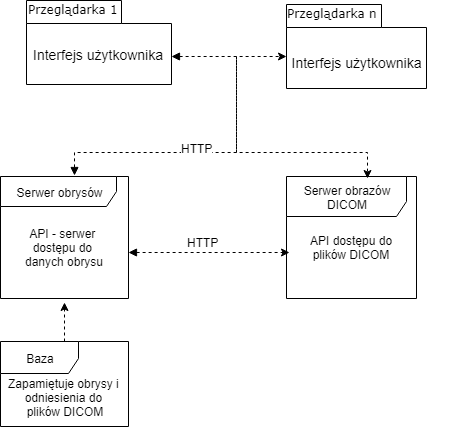
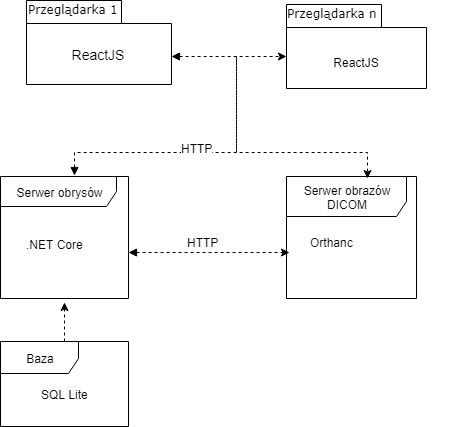
Update chapter 2 and 3.1-3.2 3.6

diff --git a/Thesis/Tekst/thesis_pl.tex b/Thesis/Tekst/thesis_pl.tex
@@ -431,44 +431,47 @@ Tomasz Świerczewski wykonał:
 \chapter {Stan wiedzy}
 
 W poniższym rozdziale zostały przedstawione istniejące na~rynku aplikacje o
-funkcjonalnościach określonych w~celu pracy. Opisano wymagania dla projektowanego systemu
-zarówno funkcjonalne jak i~niefunkcjonalne. Autorski system do~tworzenia obrysów
+funkcjonalnościach określonych w~celu niniejszej pracy. Opisano zarówno funkcjonalne jak i~niefunkcjonalne
+wymagania dla projektowanego systemu. Zaproponowany system do~tworzenia obrysów
 na obrazach w~formacie DICOM struktur anatomicznych czy zmian patologicznych
-powinien spełniać wymagania zarówno lekarzy jak i~inżynierów medycznych, wykorzystujących
+powinien spełniać wymagania zarówno lekarzy, jak i~inżynierów medycznych, wykorzystujących
 to narzędzie w~pracy badawczej i~naukowej. Przedstawiono również proponowane rozwiązanie
-postawionych przed systemem wymagań.
+postawionych wymagań.
 
 \section {Przegląd istniejących rozwiązań}
 
-Obrysy to~krzywe zamknięte naniesione na~obraz, w~celu oznaczenia wewnętrznej części.
-Obrysy można tworzyć manualnie (użytkownik wybiera wszystkie punkty obrysu), lub
-półautomatycznie (użytkownik wybiera kilka punktów, a~algorytm łączy je~na~podstawie
-analizy obrazu). Obie metody są niedoskonałe, gdyż często to~użytkownik musi skorygować
-obrys, ze~względu na~różnorodność obrazów medycznych wynikających z~różnych systemów
-obrazowania, czy też różnorodnej tekstury tkanki obrazowanej.
+Obrysy to~krzywe zamknięte naniesione na~obraz w~celu oznaczenia wewnętrznej części
+regionu zainteresowania (ang. \textit{ROI --- region of interest}).
+Obrysy można tworzyć manualnie (użytkownik wybiera wszystkie punkty obrysu) lub
+półautomatycznie (użytkownik wybiera kilka punktów, a~algorytm łączy je~przy wykorzystaniu
+algorytmu Canny'ego). Obrysy tworzone obiema metodami są modyfikowalne przez użytkownika,
+co w takich zastosowaniach jak obrysy na obrazach medycznych ma duże znaczenie. Użytkownik często musi skorygować
+wygenerowany obrys ze~względu na~różnorodność obrazów medycznych wynikających z~różnych systemów
+obrazowania, czy też ze~względu na~różnorodność tekstury tkanki obrazowanej (innej dla kążdego pacjenta).
 
 \subsection {Przeglądarki DICOM}
 
 Istnieje wiele rozwiązań umożliwiających wykonywanie obrysów przy użyciu przeglądarki.
-W tej pracy opisano szczegółowo dwie wybrane aplikacje.
+W~tej pracy opisano szczegółowo dwie wybrane aplikacje, które według nas w~największym
+stopniu spełniają założone cele pracy.
 
-Pierwsza z~nich to~aplikacja OHIF Viewer oparta o~biblioteki Cornerstone.
+Pierwsza z~nich to~aplikacja OHIF Viewer \cite{OHIF Viewer} oparta o~biblioteki Cornerstone.
 
 Cornerstone Core \cite{Cornerstone Core} to~biblioteka, która umożliwia przetwarzanie
 obrazów medycznych z~wykorzystaniem elementu canvas z~języka HTML5. Biblioteka
 udostępnia interfejs do~wyświetlania obrazów medycznych pozwalający na~zarządzanie
-wyświetlaniem zdjęcia. Podstawowe funkcjonalności obsługiwane przez bibliotekę to:
+wyświetlaniem obrazu. Podstawowe funkcjonalności obsługiwane przez tę bibliotekę to:
 
 \begin{itemize}[noitemsep]
 \item przybliżanie i~oddalanie obrazu,
 \item obrót obrazu,
-\item przesuwanie obrazu w~wyświetlanym komponencie,
+\item przesuwanie obrazu na ekranie,
 \item zmiana jasności wyświetlanego obrazu,
 \item mapowanie kolorów,
 \item interpolacja pikseli w~obrazie (dla obrazów o~niskiej rozdzielczości).
 \end{itemize}
 
-Ponadto twórcy biblioteki Cornerstone Core stworzyli bibliotekę Cornerstone Tools,
+Ponadto twórcy biblioteki Cornerstone Core stworzyli bibliotekę Cornerstone Tools \cite{Cornerstone Tools},
 która korzysta z~biblioteki Cornerstone Core i~poza funkcjonalnościami
 Cornerstone Core udostępnia opisane niżej funkcjonalności
 potrzebne lekarzom do~analizy badań pacjentów, takie jak:
@@ -490,18 +493,18 @@ Rysunku \ref{fig:OHIF-example}.
 	\includegraphics[width=0.7\textwidth]{OHIF-example}
 	\caption{Przykład użycia aplikacji OHIF Viewer --- oznaczono: prostokątny obszar,
 	dla którego obliczone zostały wybrane statystyki; odcinek, dla którego otrzymano
-	odległość w~jednostkach rzeczywistych; wskaźnik, wskazujący na~zmianę, posiadający
-	etykietę tekstową}
+	odległość w~jednostkach rzeczywistych; wskaźnik, wskazujący na~zmianę i posiadający
+	etykietę tekstową.}
     	\label{fig:OHIF-example}
 \end{figure}
 
-Niestety aplikacja nie umożliwia wykonywania obrysów manualnych, ani półautomatycznych,
+Niestety aplikacja OHIF Viewer nie umożliwia wykonywania obrysów manualnych ani półautomatycznych,
 jak również nie pozwala na~zapisanie naniesionych na~obraz oznaczeń.
 
 Drugim rozwiązaniem działającym i~pozwalającym na~pracę z~plikami DICOM w~przeglądarce
-internetowej jest DICOM Web Viewer.
+internetowej jest DICOM Web Viewer \cite{DWV}.
 
-Aplikacja DICOM Web Viewer (DWV) \cite{DWV} jest również przykładem aplikacji
+Aplikacja DICOM Web Viewer (DWV) jest również przykładem aplikacji
 przeglądarkowej służącej do~przetwarzania obrazów DICOM, z~wygodnym interfejsem
 automatycznego i~półautomatycznego obrysowywania obszarów zaznaczonych
 przez użytkownika na~obrazie. Przykładowy obrys wykonany przy użyciu aplikacji
@@ -531,7 +534,7 @@ poruszanie kursorem po~obrazie.
 Orthanc \cite{Orthanc} to~serwer plików DICOM, który umożliwia łatwe przechowywanie,
 zarządzanie oraz dostęp do~plików medycznych DICOM. Ponadto Orthanc udostępnia
 REST API \cite{Orthanc API}, które umożliwia przeglądanie wgranych na~serwer plików DICOM podzielonych
-na kategorie takie jak: pacjenci, badania i~serie.
+na kategorie takie jak: dane pacjentów, badania pacjenta i~serie.
 
 Serwer Orthanc udostępnia prosty interfejs webowy, dzięki któremu możliwe jest
 wgrywanie nowych plików (interfejs wgrywania plików przedstawiono na~Rysunku
@@ -562,7 +565,7 @@ przyciskiem myszy w~prawą część podglądu obrazu.
     	\label{fig:Orthanc-preview}
 \end{figure}
 
-Innym rozwiązaniem pozwalającym na zarządzanie badaniami obrazowymi jest SonicDICOM \cite{SonicDICOM}.
+Innym rozwiązaniem pozwalającym na zarządzanie badaniami obrazowymi jest SonicDICOM~\cite{SonicDICOM}.
 Podobnie jak Orthanc udostępnia on API \cite{SonicDICOM API} pozwalające na komunikację zewnętrznych narzędzi
 z systemem w celu przeglądnia, wyświetlania i modyfikacji zapisanych w systemie badań.
 
@@ -581,17 +584,23 @@ licencji w celu korzystania z zawarnych w nim funkcjonalności.
 
 \subsection {Podsumowanie}
 
-Istniejące rozwiązania przeglądarkowe nie zapewniają wygodnego interfejsu użytkownikowi
+Wymienione rozwiązania przeglądarkowe nie zapewniają wygodnego interfejsu użytkownikowi
 do manualnego obrysowywania interesujących go~fragmentów obrazów medycznych przy użyciu tabletu graficznego.
-Ponadto żadne z~narzędzi nie przechowuje utworzonych w~sposób manualny
-ani wygenerowanych półautomatycznie obrysów.
+Ponadto żadne z~tych narzędzi nie przechowuje obrysów utworzonych w~sposób manualny
+ani półautomatyczniy.
 
 \section {Proponowane rozwiązanie}
 
-W rozwiązaniu zdecydowano się skorzystać z~serwera Orthanc jako bazy przechowującej
+Przygotowane rozwiązanie zapewnia funkcjonalności niedostępne w innych narzędziach
+takie jak połączenie funkcjonalności manualnego i półautomatycznego generowania obryów,
+zapisanie i przeglądanie wykonanych i wygenerowanych obrysów,
+obliczanie statystyk związanych z wykonanymi obrysem jak również zmiania danych pacjenta
+dla przeglądanego badania.
+
+W zaproponowanym rozwiązaniu (Rysunek \ref{fig:architektura2}) zdecydowano się skorzystać z~serwera Orthanc jako bazy przechowującej
 pliki DICOM. Przy decyzji miało znaczenie przede wszystkim to, że jest to~narzędzie
 bezpłatne. Ponadto udostępniane przez API serwera funkcjonalności pozwalające na
-zarządzanie i~przeglądanie zapisanych plików są wystarczające dla realizowanego systemu.
+zarządzanie i~przeglądanie zapisanych plików były wystarczające dla realizowanego systemu.
 
 Poza serwerem Orthanc stworzono serwer w~technologii .NET Core \cite{Dotnet}
 wspomagający interfejs użytkownika, który pozwala na~przeprowadzanie czasochłonnych
@@ -607,7 +616,7 @@ z biblioteką Redux\cite{Redux}. Zdecydowano się na~tę technologię ze~względ
 i elastyczność \cite{Dlaczego react}. Wybranie tej technologii pozwoliło na~stworzenie
 aplikacji przeglądarkowej pozwalającej na~generowanie obrysów manualnych przy
 użyciu myszy lub tabletu graficznego, wybieranie punktów, z~których generowane
-będą obrysy półautomatyczne, oglądanie wcześniej wygenerowanych i~zapisanych
+będą obrysy półautomatyczne, możliwość oglądania wcześniej wygenerowanych i~zapisanych
 obrysów oraz wyświetlanie statystyk dotyczących wykonanego obrysu. Interfejs
 inspirowany jest podglądem obrazu w~aplikacji DWV, ale działanie półautomatycznego
 obrysu zostało zrealizowane inaczej --- obrys nie jest generowany na~bieżąco, lecz na~życzenie
@@ -616,32 +625,32 @@ wynik półautomatycznego dopasowania obrysu.
 
 \begin{figure}[tb]
 	\center
-	\includegraphics[width=0.7\textwidth]{architektura}
-	\caption{Diagram UML przedstawiający architekturę autorskiego systemu}
-    	\label{fig:architektura2}
+	\includegraphics[width=0.7\textwidth]{architektura2}
+	\caption{Diagram przedstawiający części autorskiego systemu}
+    	\label{fig:architektura2} % TODO: add image!!!!!!!!!!!!!!!!!!!!!!!!!!!!!!!!!!!!!!!!!!!!!!!
 \end{figure}
 
 \afterpage{\blankpage}
 
 \chapter {Opis autorskiego narzędzia informatycznego}
 
-W poniższym rozdziale zawarto dokumentację biznesową jak i~techniczną tworzonego narzędzia.
-Przedstawiono: wymagania funkcjonalne i~niefunkcjonalne,
+W poniższym rozdziale zawarto dokumentację biznesową, jak i~techniczną tworzonego narzędzia.
+Przedstawiono wymagania funkcjonalne i~niefunkcjonalne,
 architekturę narzędzia, a także zastosowane metody półautomatycznego obrysu oraz metody obliczania
 statystyk dla wybranego obszaru obrazu wewnątrz obrysu.
 
 \section {Specyfikacja wymagań}
 
-Specyfikacja wymagań została opracowana na podstaiwe danych dotyczących wymagań stawianych
+Specyfikacja wymagań została opracowana na podstawie danych dotyczących wymagań stawianych
 przed tworzonym systemem. Zostały one przedstawione w~rozdziałach 3.1.1. - 3.1.3. Wymagania
-były konsultowane z~lekarzami i~ze~studentami Warszawskiego Uniwersytetu Medycznego.
+były konsultowane z~lekarzami i~studentami ostatniego roku medycyny z Warszawskiego Uniwersytetu Medycznego.
 
 \subsection {Opis biznesowy}
 \interfootnotelinepenalty=10000
 
 Celem projektu było stworzenie interfejsu przyjaznego użytkownikowi, który umożliwi
 przeglądanie obrazów DICOM, w~celu wykonywania obrysów na~tych obrazach, a~także wyliczenia
-związanych z wykonananym obrysem statystyk. Praca
+statystyk dotyczących wykonanych obrysów. Praca
 obejmowała stworzenie aplikacji webowej, która udostępni użytkownikowi interfejs
 komunikujący się z~bazą danych Orthanc. Ponadto praca obejmowała stworzenie serwera
 odpowiedzialnego za~przechowywanie wygenerowanych przez użytkownika obrysów oraz
@@ -664,12 +673,12 @@ punkty wybrane przez użytkownika i wyliczone statystyki.
 
 \subsection {Wymagania funkcjonalne}
 
-Nieodłącznym elementem inżynierii oprogramowania przy próbie dokumentacji
+Nieodłącznym elementem inżynierii oprogramowania przy tworzeniu dokumentacji
 określonego produktu lub usługi, są wymagania funkcjonalne i~niefunkcjonalne.
 Te pierwsze opisują funkcje i~możliwości, które system powinien realizować, drugie
 natomiast mówią o tym jakiej wydajności, użyteczności i dostępności wymaga się od tworzonego narzędzia.
-Wymagania funkcjonalne zostały przygotowane na podstawie konsultacji z~lekarzami
-i~studentami kierunków medycznych dla tworzonego systemu. Przedstawiono
+Wymagania funkcjonalne dla tworzonego systemu zostały przygotowane na podstawie
+konsultacji z~lekarzami i studentami ostatniego roku radiologii. Przedstawiono
 je poniżej w~postaci historii użytkownika (ang. user stories), czyli czynności
 jakie może chcieć wykonać użytkownik tego systemu.
 \begin{enumerate}
@@ -740,6 +749,19 @@ pozostawienie pustych pól w~formularzu.
 \end{enumerate}
 
 \subsection {Wymagania niefunkcjonalne}
+
+Drugim rodzajem wymagań przy tworzeniu systemu są wymagania niefunkcjonalne, które opisują kryteria osądzania
+działania systemu pod kątem jakościowym. Założone wymagania niefunkcjonalne zostały
+przedstawione w~Tabeli \ref{tabela wymagania niefunkcjonalne}. Do najważniejszych
+obszarów ujętych w tabeli należą:
+
+\begin{enumerate}[label=(\alph*)]
+  \item użyteczność pod względem dostępności z różnych urządzeń o rozdzielczościach
+   1920 na 1080 pikseli oraz pod względem zapewnienia dostępu do zapisanych na serwerze obrysów
+  \item niezawodność aplikacji w działaniu
+  \item wydajność pozwalająca na generację obrysów w krótkim czasie.
+\end{enumerate}
+
 \newcommand{\specialcell}[3][c]{%
  \begin{tabular}[#1]{@{}#2@{}}#3\end{tabular}}
 \begin{table}
@@ -771,12 +793,7 @@ pozostawienie pustych pól w~formularzu.
 \end{tabular}
 \end{table}
 
-Drugim rodzajem wymagań przy tworzeniu systemu są wymagania niefunkcjonalne, które opisują kryteria osądzania
-działania systemu pod kątem jakościowym. Założone wymagania niefunkcjonalne zostały
-przedstawione w~Tabeli \ref{tabela wymagania niefunkcjonalne}. Do najważniejszych
-obszarów ujętych w tabeli należą: użyteczność, niezawodność oraz wydajność.
-
-\section {Architektura rozwiązania}
+\section {Architektura zaproponowanego narzędzia}
 
 Architektura autorskiego systemu do tworzenia obrysów na obrazach w formacie DICOM
 (Rysunek \ref{fig:architektura}) pozwala na~połączenie z~serwerem obrazów DICOM (Orthanc) oraz serwerem
@@ -802,10 +819,10 @@ obliczeniwym zostało opisane w~Rozdziale 5.2.
 Kluczowym elementem stworzonego systemu jest interfejs użytkownika napisany w
 języku skryptowym JavaScript przy użyciu biblioteki ReactJS. Udostępnia ona
 interfejs nawigujący po~zapisanych w~serwerze Orthanc plikach DICOM. Ponadto dla
-wyświetlonego obrazu udostępnia szczegóły dotyczące obrazu, badania i~pacjenta.
+wyświetlonego obrazu udostępnia szczegóły dotyczące akwizycji obrazu, rodzaju badania i~danych pacjenta.
 Umożliwia także wykonanie obrysu manualnego zrealizowanego przy użyciu biblioteki
-react-canvas-draw. W~aplikacji zawarto również autorski interfejs do~wyboru punktów
-do algorytmu półautomatycznego, wykonany z~użyciem elementu canvas \cite{Canvas}.
+\textit{react-canvas-draw} \cite{React canvas draw}. W~aplikacji zawarto również autorski interfejs do~wyboru punktów
+do algorytmu półautomatycznego, wykonany z~użyciem elementu \textit{canvas} \cite{Canvas}.
 Podgląd zapisanych w~systemie obrysów wraz z~wyliczonymi dla nich statystykami
 jest możliwy z~poziomu tworzenia obrysów oraz w~osobnej zakładce, gdzie udostępniono
 widok, w~którym użytkownik może oglądać jednocześnie wybrane przez siebie obrysy
@@ -818,8 +835,8 @@ przechowywane są przez serwer DICOM. Dostęp do~zapisanych na~serwerze danych j
 możliwy poprzez udostępniane przez serwer API. Interfejs użytkownika wykorzystuje
 API poprzez protokół HTTP.
 
-API serwera udostępnia dane obrazów posegregowanych względem kolejno: pacjentów,
-badań oraz serii. Wykorzystano je~w~interfejsie użytkownika do~nawigacji pomiędzy
+API serwera udostępnia informacje o obrazach, takie jak dane pacjenta,
+rodzaj badania oraz serii. Wykorzystano je~w~interfejsie użytkownika do~nawigacji pomiędzy
 obrazami. Dodatkowo dla każdego obrazu serwer udostępnia dane obrazowe, umożliwiając
 wyświetlenie obrazu w~interfejsie użytkownika. Ponadto API udostępnia wszystkie
 tagi obrazu DICOM, co~umożliwia wyświetlanie w interfejsie użytkownika informacji
@@ -828,12 +845,12 @@ w nich zawartych.
 \subsection {Serwer obrysów i~statystyk}
 Kolejny kluczowy element stworzonego systemu to~serwer obrysów i~obliczeń. Udostępnia
 on API z~obrysami, które zostało wykorzystane przez interfejs użytkownika. API zostało
-stworzone przy pomocy ASP.NET Core 2.2 \cite{ASPNET} przy wykorzystaniu frameworka
-.NET Core 2.2 \cite{Charakterystyka dotnet}. API oferuje 4~podstawowe operacje CRUD
-- utwórz, odczytaj, aktualizuj i~usuń. W~celu pobrania zdjęć medycznych serwer z~API
+stworzone przy pomocy ASP.NET Core 2.2 \cite{ASPNET} i wykorzystaniu frameworka
+.NET Core 2.2 \cite{Charakterystyka dotnet}. API oferuje cztery podstawowe operacje CRUD
+- utwórz, odczytaj, aktualizuj i~usuń. W~celu pobrania obrazów medycznych serwer z~API
 łączy się do~bazy danych Orthanc. Informacje o~obrysach, takie jak ID~obrysu, tag,
 ID obrazu medycznego i~typ obrysu (półautomatyczny lub manualny) są przechowywane
-w bazie danych Microsoft SQL Server. Pozostałe informacje, takie jak: lista pikseli
+w bazie danych Microsoft SQL Server. Pozostałe informacje takie jak: lista pikseli
 należących do~obrysu, lista punktów w~przypadku obrysu półautomatycznego i~statystyki
 są przechowywane w~plikach CSV. Te~pliki są zapisywane w~katalogu roboczym obok
 miejsca przechowywania plików źródłowych dla API.
@@ -848,7 +865,7 @@ i~generowanie podglądu i~zapis obrysu półautomatycznego.
 
 W celu zapisania danych związanych z~obrysami wykorzystana została baza SQL~Lite.
 Baza składa się z~jednej tabeli, w~której przechowywane są: identyfikator obrazu DICOM,
-identyfikator obrysu, nazwa obrysu oraz informacja, czy obraz został wygenerowany
+identyfikator obrysu, nazwa obrysu oraz informacja o tym, czy obraz został wygenerowany
 manualnie czy półautomatycznie. Punkty z których składa się obrys i~statystytki
 z~nim związane zapisywane są~w~oddzielnych
 plikach tekstowych o nazwie identycznej z identyfikatorem obrysu.
@@ -867,8 +884,7 @@ i~obliczeń w~postaci plików CSV na~dysku serwera. Na obrys składa się lista
 pozycji punktów na obrazie, przez które użytkownik przesuwał kursor, a~także kolor obrysu.
 W~momencie zapisu obrysu do pliku obliczane są
 również statystyki dotyczące obrysowanej części obrazu, takie jak długość obrysu,
-pole obrysu, środek ciężkości obrysu, histogram regionu zainteresowania (ang. \textit{ROI ---
-region of interest}) zawartego w obrysie oraz
+pole obrysu, środek ciężkości obrysu, histogram regionu zainteresowania zawartego w obrysie oraz
 liczba pikseli wewnątrz obrysu.
 
 W związku z~tym, że obrazy wyświetlane w~interfejsie są w~innej rozdzielczości
@@ -1601,6 +1617,9 @@ z REST API serwera Orthanc. Umożliwia to wykonanie kopii badania wgranego do~se
 z~nowymi danymi pacjenta. Po~wykonaniu kopii z~podanymi przez użytkownika danymi,
 oryginalny obraz DICOM jest usuwany z~serwera obrazów Orthanc.
 
+Danymi, które użytkownik może zmienić to~imię i~nazwisko pacjenta, data urodzenia pacjenta
+i~płeć pacjenta. W miejsce wymienionych pól użytkownik może wpisać dowolne ciągi
+znaków, w szczególności takie, które nie pozwolą na ustalenie tożsamości pacjenta.
 
 \afterpage{\blankpage}
 
@@ -1937,6 +1956,7 @@ inteligencji opartych na~obrysach wykonanych przez użytkownika.
 
 \bibitem{Redux} Abramov D. and the Redux documentation authors: ReduxJs https://redux.js.org/ [Dostęp 23~lutego 2019]
 \bibitem{C w pigulce} Albahari J., Albahari B.: C~6.0 w~pigułce, \emph{Helion, O'Reilly Media, Inc.},Gliwice, page--page, 2016
+\bibitem{React canvas draw} Beierling-Mutz M.: React Canvas Draw. Oficjalne repozytorium: https://github.com/embiem/react-canvas-draw [Dostęp 1~kwietnia 2019]
 \bibitem{Bresenham} Bresenham J. E.: Algorithm for computer control of~a~digital plotter. \emph{ICM System Journal 4(1)} 1965
 \bibitem{AiSD2} Bródka J.: Wykłady z~przedmiotu Algorytmy i~Struktury Danych 2~\emph{Politechnika Warszawska, Wydział Matematyki i~Nauk Informacyjnych} Materiały dostepne na~stronie: http://mini.pw.edu.pl/~brodka/ASD2.html [Dostęp 22~stycznia 2019]
 \bibitem{Canny} Canny J. F.: Finding Edges and Lines in~Images. \emph{Technical report no. 720, Massachusetts Institute of~Technology (MIT)}, Cambridge, Massachusetts, USA, 1983
@@ -1946,6 +1966,7 @@ inteligencji opartych na~obrysach wykonanych przez użytkownika.
 \bibitem{SonicDICOM} JIUN Corporation: Przykład użycia intefejsu podglądu badań w systemie SonicDICOM: https://sonicdicom.com/screens/viewer-of-dicom-viewer/ [Dostęp 24~marca 2019]
 \bibitem{SonicDICOM API} JIUN Corporation: Instrukcja korzystania z~REST API SonicDICOM. Oficialna strona: https://docs.sonicdicom.com/install-manual/integration.html [Dostęp 24 marca 2019]
 \bibitem{Cornerstone Core} Hafey C.: Dokumentacja projektu Cornerstone Core. Oficjalna strona: https://docs.cornerstonejs.org/ [Dostęp 27~stycznia 2019]
+\bibitem{Cornerstone Tools} Hafey C.: Dokumentacja projektu Cornerstone Tools. Oficjalna strona: https://tools.cornerstonejs.org/ [Dostęp 1~kwietnia 2019]
 \bibitem{A*} Hart P. E., Nilsson N. J., Raphael B.: A~Formal Basis for the Heurestic Determination of~Minimum Cost Paths \emph{IEEE Transactions on~Systems Science and Cybernetics 4(2)}, 100--107, 1968
 \bibitem{DWV} ivmartel: Projekt DICOM Web Viewer. Oficjalna strona: https://ivmartel.github.io/dwv/ [Dostęp 27~stycznia 2019]
 \bibitem{GK1} Kotowski P.: Wykłady z~przedmiotu Grafika Komputerowa~1~\emph{Politechnika Warszawska, Wydział Matematyki i~Nauk Informacyjnych} Materiały dostepne na~stronie: http://mini.pw.edu.pl/~kotowski/gk/gk.html [Dostęp 01~kwietnia 2019]
@@ -1957,6 +1978,7 @@ inteligencji opartych na~obrysach wykonanych przez użytkownika.
 \bibitem{Canvas} Mozilla and individual contributors: Dokumentacja HTMLCanvasElement. Oficjalna strona: https://developer.mozilla.org/en-US/docs/Web/API/HTMLCanvasElement/ [Dostęp 27~stycznia 2019]
 \bibitem{DICOM} National Electrical Manufacturers Association: Standard DICOM. Oficjalna strona: https://www.dicomstandard.org/ [Dostęp 22~stycznia 2019]
 \bibitem{Dlaczego react} Nowacki R., Plechawska-Wójcik M.: Analiza porównawcza narzędzi do~budowania aplikacji Single Page Application --- AngularJS, ReactJS, Ember.js, \emph{Journal of~Computer Sciences Institute 2, Politechnika Lubelska, Instytut Informatyki}, Lublin, 98--103, 2016
+\bibitem{OHIF Viewer} OHIF: Open Health Imaging Foundation. Oficjalna strona: http://ohif.org/ [Dostęp 1~kwietnia 2019]
 \bibitem{Orthanc} Osimis S.A.: Projekt Orthanc. Oficjalna strona: https://www.orthanc-server.com/ [Dostęp 27~stycznia 2019]
 \bibitem{Orthanc API} Osimis S.A.: Instrukcja korzystania z~REST API Orthanc. Oficjalna strona: http://book.orthanc-server.com/users/rest.html [Dostęp 23~lutego 2019]
 \bibitem{Pixel connectivity} Rosenfeld A., Kak A. C.: Digital Picture Processing, \emph{Academic Press, Inc.}, Nowy Jork, 1982
